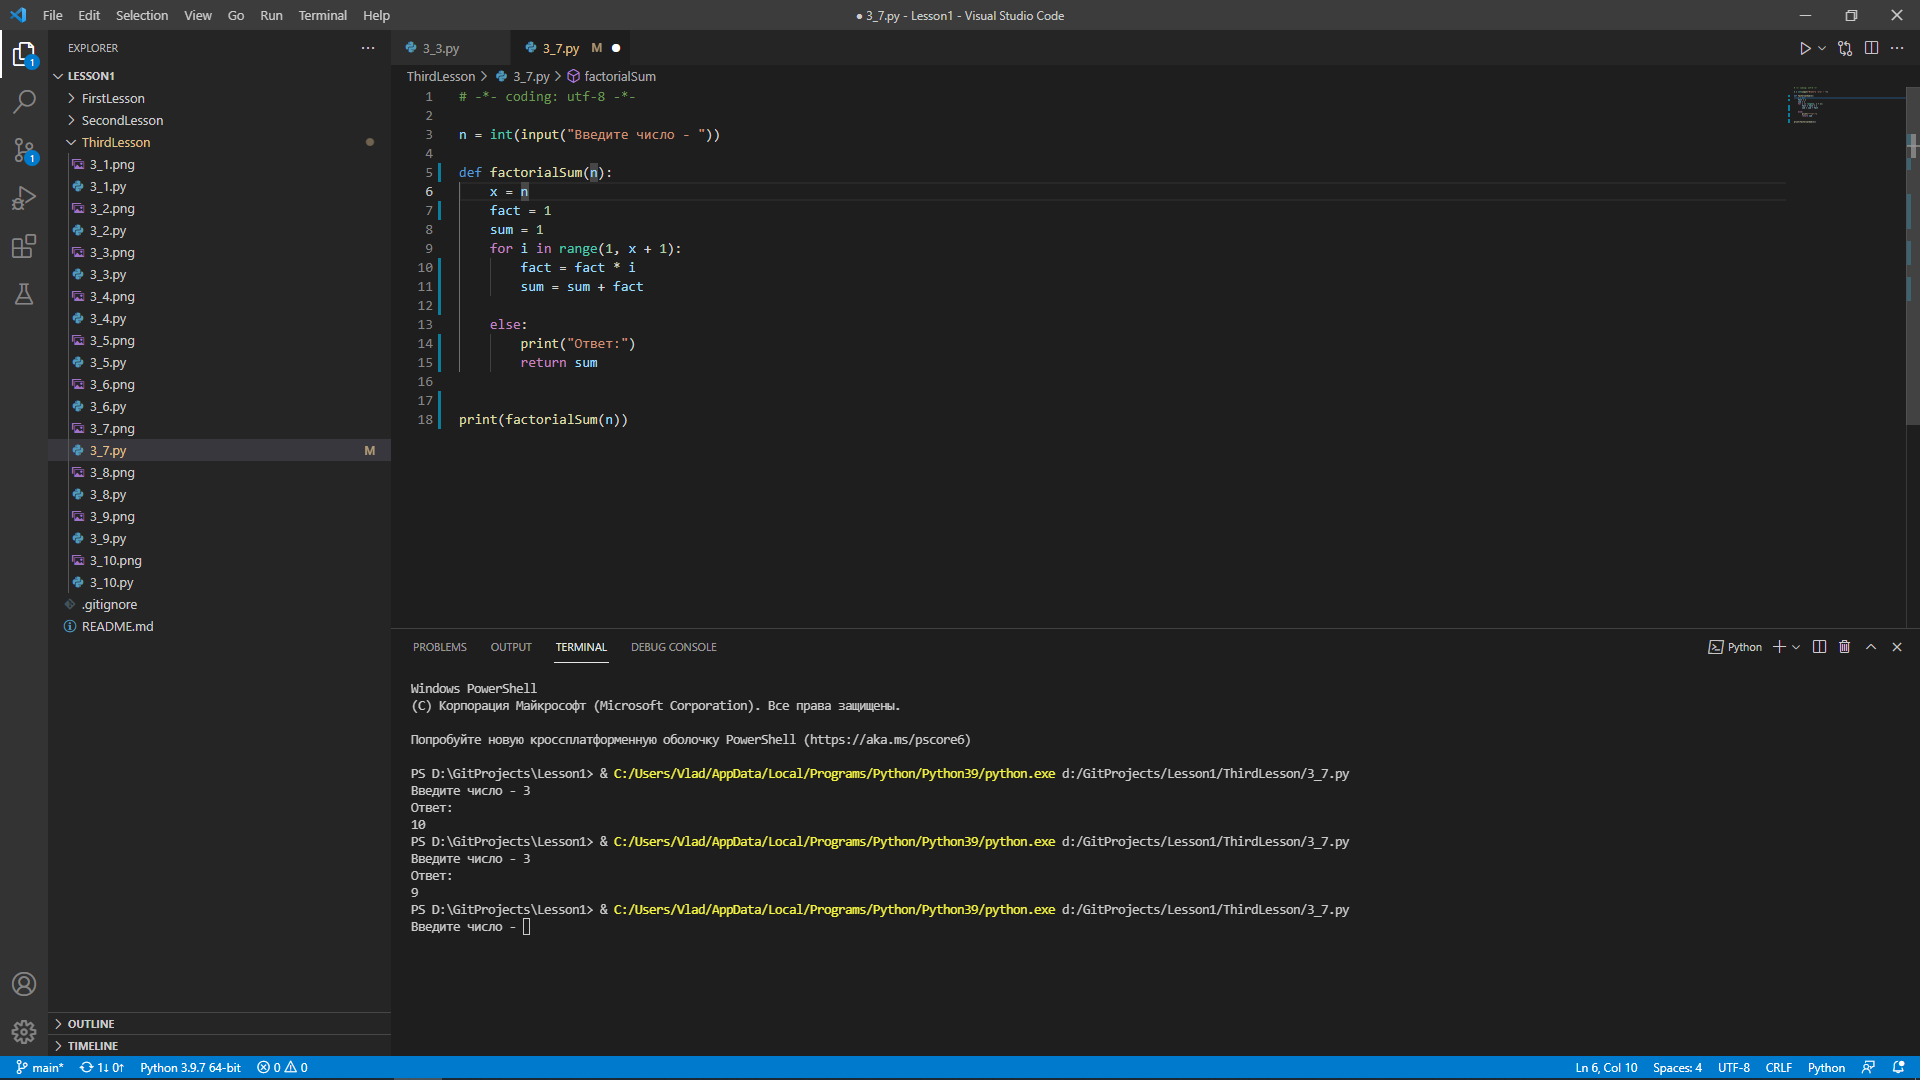
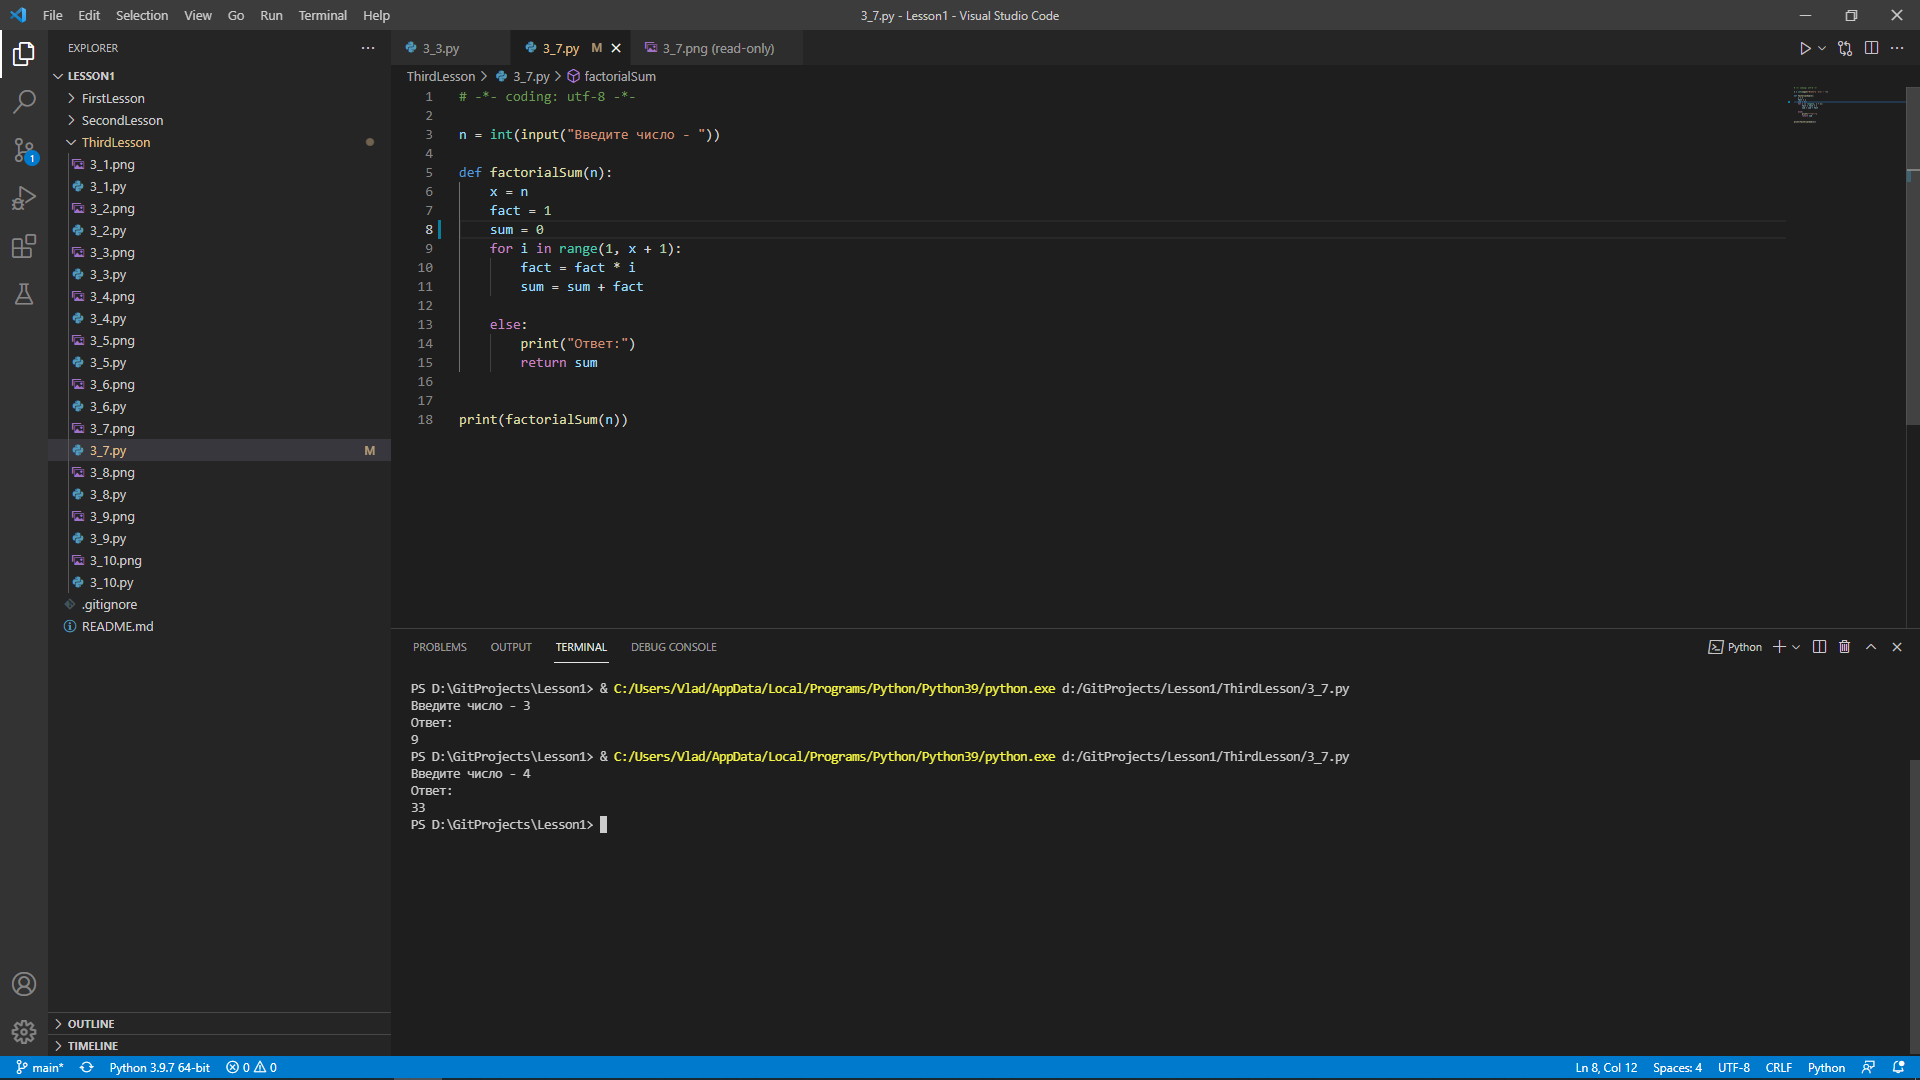
remake 3_7

diff --git a/ThirdLesson/3_7.py b/ThirdLesson/3_7.py
@@ -5,7 +5,7 @@ n = int(input("Введите число - "))
 def factorialSum(n):
     x = n
     fact = 1
-    sum = 1
+    sum = 0
     for i in range(1, x + 1):
         fact = fact * i
         sum = sum + fact
